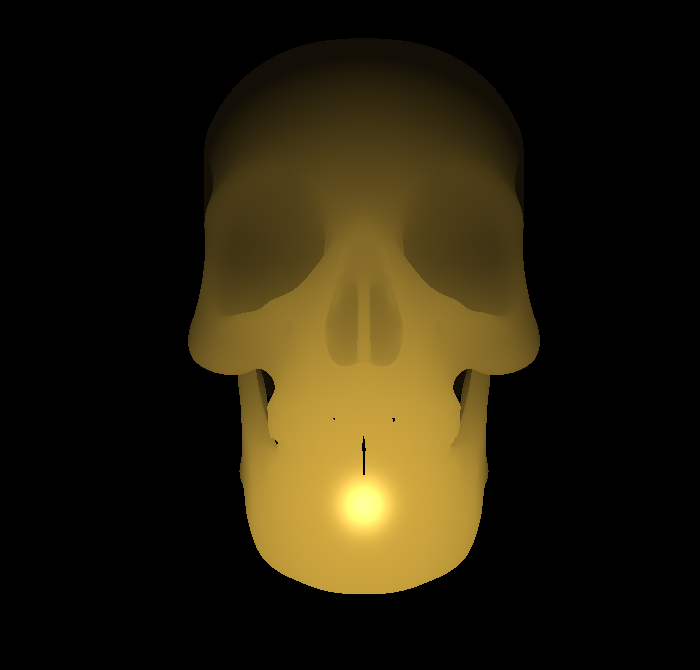
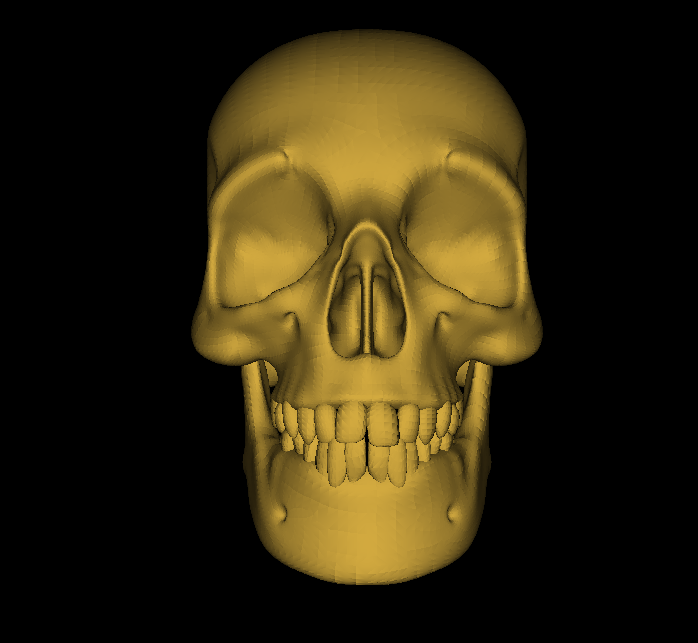
program7_4 5 6

Changed region(s): [[0.2708, 0.0311, 0.7822, 0.9331]]

diff --git a/src/program_7_5.cpp b/src/program_7_5.cpp
@@ -6,12 +6,12 @@
 #include <glm/gtc/matrix_transform.hpp>
 #include <glm/gtc/type_ptr.hpp>
 #include <Utils.hpp>
-#include <modelImporter.hpp>
+#include <Torus.hpp>
 
 void installLights(glm::mat4 v_matrix);
 
 #define numVAOs 1
-#define numVBOs 3  //changed from 2 to 3
+#define numVBOs 4  //changed from 2 to 3
 
 float cameraX, cameraY, cameraZ;
 
@@ -48,21 +48,40 @@ float* matDif = Utils::goldDiffuse();
 float* matSpe = Utils::goldSpecular();
 float matShi = Utils::goldShininess();
 
-int numVertices;
+Torus myTorus(0.5f, 1.0f, 36, 72);  // Initialize a torus with inner radius 1.0, outer radius 0.5, 48 sides, and 48 rings
 
 void setupVertices() {
 
-    ModelImporter skull;
-    skull.parseObjFile("Skull.obj");
-    numVertices = skull.getNumVertices();
+    std::vector<unsigned int> ind = myTorus.getIndices();
+    std::vector<glm::vec3> vert = myTorus.getVertices();
+    std::vector<glm::vec2> texCoords = myTorus.getTexCoords();
+    std::vector<glm::vec3> normals = myTorus.getNormals();
 
-    std::vector<float> skullVertices = skull.getVertices();
-    std::vector<float> normals = skull.getNormals();
-    //std::vector<float> textures = skull.getTexCoords();
+    // Crear un vector para almacenar los datos de vértices
+    std::vector<float> pvalues;
+    for (const auto& v : vert) {
+        pvalues.push_back(v.x);
+        pvalues.push_back(v.y);
+        pvalues.push_back(v.z);
+    }
 
-    //std::cout << "Vertices: " << numVertices << std::endl;
-    //std::cout << "Normals: " << skullVertices.size() << std::endl;
-    //std::cout << "Normals: " << normals.size() << std::endl;
+    // Crear un vector para almacenar los datos de coordenadas de textura
+    std::vector<float> tvalues;
+    for (const auto& t : texCoords) {
+        tvalues.push_back(t.s);
+        tvalues.push_back(t.t);
+    }
+    
+    // Crear un vector para almacenar los datos de normales
+    std::vector<float> nvalues;
+    for (const auto& n : normals) {
+        nvalues.push_back(n.x);
+        nvalues.push_back(n.y);
+        nvalues.push_back(n.z);
+    }
+
+    int numVertices = myTorus.getNumVertices();
+    int numIndices = myTorus.getNumIndices();
 
     glGenVertexArrays(numVAOs, vao);
     glBindVertexArray(vao[0]);
@@ -71,21 +90,24 @@ void setupVertices() {
 
     // Configurar VBO para los vértices
     glBindBuffer(GL_ARRAY_BUFFER, vbo[0]);
-    glBufferData(GL_ARRAY_BUFFER, skullVertices.size()  * sizeof(float), &skullVertices[0], GL_STATIC_DRAW);
+    glBufferData(GL_ARRAY_BUFFER, pvalues.size() * sizeof(float), &pvalues[0], GL_STATIC_DRAW);
+
+    // Configurar VBO para los índices
+    glBindBuffer(GL_ELEMENT_ARRAY_BUFFER, vbo[1]);
+    glBufferData(GL_ELEMENT_ARRAY_BUFFER, ind.size() * sizeof(unsigned int), &ind[0], GL_STATIC_DRAW);
 
     // Configurar VBO para las coordenadas de las normales
-    glBindBuffer(GL_ARRAY_BUFFER, vbo[1]);
-    glBufferData(GL_ARRAY_BUFFER, normals.size() * sizeof(float), &normals[0], GL_STATIC_DRAW);
+    glBindBuffer(GL_ARRAY_BUFFER, vbo[2]);
+    glBufferData(GL_ARRAY_BUFFER, nvalues.size() * sizeof(float), &nvalues[0], GL_STATIC_DRAW);
 
-    // Configurar VBO para las coordenadas de las texturas
-   // glBindBuffer(GL_ARRAY_BUFFER, vbo[2]);
-   // glBufferData(GL_ARRAY_BUFFER, textures.size() * sizeof(float), &textures[0], GL_STATIC_DRAW);
-
+    // Configurar VBO para las coordenadas de textura
+    glBindBuffer(GL_ARRAY_BUFFER, vbo[3]);
+    glBufferData(GL_ARRAY_BUFFER, tvalues.size() * sizeof(float), &tvalues[0], GL_STATIC_DRAW);
 }
 
 void init(GLFWwindow *window) {
     
-    renderingProgram = Utils::createShaderProgram("vertex_shader73.glsl", "fragment_shader73.glsl");
+    renderingProgram = Utils::createShaderProgram("vertex_shader74.glsl", "fragment_shader74.glsl");
 
     if (Utils::checkOpenGLError()) {
         std::cerr << "ERROR: Could not create the shader program" << std::endl;
@@ -96,7 +118,9 @@ void init(GLFWwindow *window) {
 
     pMat = glm::perspective(glm::radians(60.0f), aspect, 0.1f, 50.0f);
 
-    cameraX = 0.0f; cameraY = 10.0f; cameraZ = 40.0f;
+    cameraX = 0.0f; cameraY = 0.0f; cameraZ = 6.0f;
+
+    worldTexture = Utils::loadTexture("colorbrick.jpg");
 
     setupVertices();
 }
@@ -115,12 +139,9 @@ void display(GLFWwindow *window, double currentTime) {
     vMat = glm::translate(glm::mat4(1.0f), glm::vec3(-cameraX, -cameraY, -cameraZ));
 
     // Aplicar la rotación de 45 grados alrededor del eje Y
-    float angle1 = glm::radians(90.0f);
-    float angle2 = glm::radians(35.0f);
-
+    float angle = glm::radians(-45.0f);
     //mMat = glm::rotate(glm::mat4(1.0f), (float)currentTime, glm::vec3(1.0f, 0.0f, 0.0f));
-    mMat = glm::rotate(glm::mat4(1.0f), -(float)angle1, glm::vec3(1.0f, 0.0f, 0.0f));
-    //mMat = glm::rotate(glm::mat4(1.0f), -(float)angle2, glm::vec3(0.0f, 0.0f, 1.0f));
+    mMat = glm::rotate(glm::mat4(1.0f), angle, glm::vec3(1.0f, 0.0f, 0.0f));
     
     //currentLightPos = glm::vec3(initialLightLoc.x * cos(currentTime), initialLightLoc.y, initialLightLoc.z * sin(currentTime));
     currentLightPos = glm::vec3(initialLightLoc.x, initialLightLoc.y, initialLightLoc.z);
@@ -139,17 +160,23 @@ void display(GLFWwindow *window, double currentTime) {
     glVertexAttribPointer(0, 3, GL_FLOAT, GL_FALSE, 0, 0); // link the vertex attributes with the buffer data
     glEnableVertexAttribArray(0);
 
-    glBindBuffer(GL_ARRAY_BUFFER, vbo[1]);
-    glVertexAttribPointer(1, 3, GL_FLOAT, GL_FALSE, 0, 0); // link the texture attributes with the buffer data
+    glBindBuffer(GL_ARRAY_BUFFER, vbo[2]);
+    glVertexAttribPointer(1, 3, GL_FLOAT, GL_FALSE, 0, 0); // link the normal attributes with the buffer data
     glEnableVertexAttribArray(1);
+
+    glBindBuffer(GL_ARRAY_BUFFER, vbo[3]);
+    glVertexAttribPointer(2, 2, GL_FLOAT, GL_FALSE, 0, 0); // link the texture attributes with the buffer data
+    glEnableVertexAttribArray(2);
 
     glEnable(GL_CULL_FACE);
     glFrontFace(GL_CCW);
+    glActiveTexture(GL_TEXTURE0);
+    glBindTexture(GL_TEXTURE_2D, worldTexture);
 
     glEnable(GL_DEPTH_TEST);
     glDepthFunc(GL_LEQUAL);
 
-    glDrawArrays(GL_TRIANGLES, 0, numVertices);
+    glDrawElements(GL_TRIANGLES, myTorus.getNumIndices(), GL_UNSIGNED_INT, 0);
 }
 
 int main(void) {
@@ -162,7 +189,7 @@ int main(void) {
     glfwWindowHint(GLFW_OPENGL_PROFILE, GLFW_OPENGL_CORE_PROFILE);
     glfwWindowHint(GLFW_OPENGL_FORWARD_COMPAT, GL_TRUE);
 
-    GLFWwindow* window = glfwCreateWindow(1080, 720, "program_7_3", NULL, NULL);
+    GLFWwindow* window = glfwCreateWindow(1080, 720, "program_7_1", NULL, NULL);
     if (!window) {
         std::cerr << "ERROR: GLFW window could not be created" << std::endl;
         glfwTerminate();

diff --git a/src/program_7_6.cpp b/src/program_7_6.cpp
@@ -58,7 +58,7 @@ void setupVertices() {
 
     std::vector<float> skullVertices = skull.getVertices();
     std::vector<float> normals = skull.getNormals();
-    //std::vector<float> textures = skull.getTexCoords();
+    std::vector<float> textures = skull.getTexCoords();
 
     //std::cout << "Vertices: " << numVertices << std::endl;
     //std::cout << "Normals: " << skullVertices.size() << std::endl;
@@ -77,15 +77,15 @@ void setupVertices() {
     glBindBuffer(GL_ARRAY_BUFFER, vbo[1]);
     glBufferData(GL_ARRAY_BUFFER, normals.size() * sizeof(float), &normals[0], GL_STATIC_DRAW);
 
-    // Configurar VBO para las coordenadas de las texturas
-   // glBindBuffer(GL_ARRAY_BUFFER, vbo[2]);
-   // glBufferData(GL_ARRAY_BUFFER, textures.size() * sizeof(float), &textures[0], GL_STATIC_DRAW);
+    //Configurar VBO para las coordenadas de las texturas
+    glBindBuffer(GL_ARRAY_BUFFER, vbo[2]);
+    glBufferData(GL_ARRAY_BUFFER, textures.size() * sizeof(float), &textures[0], GL_STATIC_DRAW);
 
 }
 
 void init(GLFWwindow *window) {
     
-    renderingProgram = Utils::createShaderProgram("vertex_shader73.glsl", "fragment_shader73.glsl");
+    renderingProgram = Utils::createShaderProgram("vertex_shader74.glsl", "fragment_shader74.glsl");
 
     if (Utils::checkOpenGLError()) {
         std::cerr << "ERROR: Could not create the shader program" << std::endl;
@@ -97,6 +97,9 @@ void init(GLFWwindow *window) {
     pMat = glm::perspective(glm::radians(60.0f), aspect, 0.1f, 50.0f);
 
     cameraX = 0.0f; cameraY = 10.0f; cameraZ = 40.0f;
+
+    worldTexture = Utils::loadTexture("Skull.jpg");
+
 
     setupVertices();
 }
@@ -142,6 +145,10 @@ void display(GLFWwindow *window, double currentTime) {
     glBindBuffer(GL_ARRAY_BUFFER, vbo[1]);
     glVertexAttribPointer(1, 3, GL_FLOAT, GL_FALSE, 0, 0); // link the texture attributes with the buffer data
     glEnableVertexAttribArray(1);
+
+    glBindBuffer(GL_ARRAY_BUFFER, vbo[2]);
+    glVertexAttribPointer(2, 2, GL_FLOAT, GL_FALSE, 0, 0); // link the texture attributes with the buffer data
+    glEnableVertexAttribArray(2);
 
     glEnable(GL_CULL_FACE);
     glFrontFace(GL_CCW);

diff --git a/README.md b/README.md
@@ -91,16 +91,27 @@ This will build the project and compile all the programs located inside the src 
     </td>    
   </tr>
 </table>
+
 <table>
   <tr>
     <td>
       <img src="gallery/program_7_4.png" alt="program_7_2" style="width: 500px;"/>
     </td>
     <td>
+      <img src="gallery/program_7_5.png" alt="program_7_2" style="width: 500px;"/>
     </td>    
   </tr>
 </table>
 
+<table>
+  <tr>
+    <td>
+      <img src="gallery/program_7_6.png" alt="program_7_2" style="width: 500px;"/>
+    </td>
+    <td>
+    </td>    
+  </tr>
+</table>
 
 
 ---------------------------
